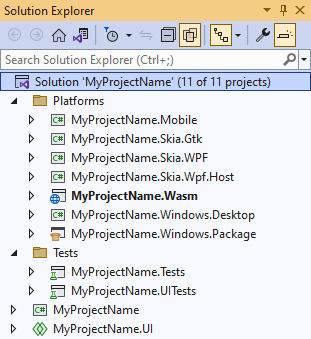
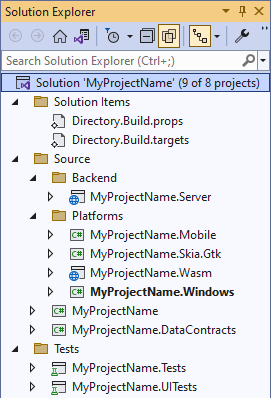
docs: Review of getting started guides

diff --git a/doc/Questions.md b/doc/Questions.md
@@ -3,41 +3,42 @@ uid: Overview.Questions
 ---
 # Frequently Asked Questions
 
-## What is Uno Platform Extensions?
-Uno Platform Extensions is our lineup of helpful NuGet packages designed to encapsulate common functions when building multi-platform mobile, desktop, and web applications with Uno Platform.
+## What is Uno.Extensions?
+Uno.Extensions is a series of helpful NuGet packages designed to encapsulate common functions when building multi-platform mobile, desktop, and web applications with Uno Platform.
 
-## What functionality is part of the Uno Extensions collection?
+## What functionality is part of Uno.Extensions?
 Key features like dependency injection, serialization, configuration, environments, HTTP, localization, logging, hosting, and authentication allow you to save time while also lowering your overall budget for the application. 
 
-## How productive will I be with Uno Extensions?
-With Uno Extensions, you'll be bursting with productivity! 
-
+## How productive will I be with Uno.Extesions?
+With Uno.Extesions, you'll be bursting with productivity! 
+[GettingStarted.md](GettingStarted.md)
 From advancements in starting a new project with the app template to the ability to extend the functionality of your app, you'll be able to get to market faster and with less effort.
 
-## How can Uno Extensions help me meet the moment?
-Uno Extensions allows you to respond quickly to changing market conditions by saving up months of development time. You will be able to reduce the budget needed to develop the app and reap the benefits of arriving to market fast.
+## How can Uno.Extesions help me meet the moment?
+Uno.Extesions allows you to respond quickly to changing market conditions by saving up months of development time. You will be able to reduce the budget needed to develop the app and reap the benefits of arriving to market fast.
 
 Likewise, your organization can streamline developer resources by reusing tested code across both iOS and Android devices.
 
-## How does Uno Extensions allow me to extend the functionality of my app?
+## How does Uno.Extesions allow me to extend the functionality of my app?
 A host environment is provided where you can easily register application features as additional dependencies. The registered dependencies are then available throughout the application.
 
-## How can I get started with Uno Extensions?
+## How can I get started with Uno.Extesions?
 Instructions for creating an application from the template can be found [here](xref:Overview.Extensions)
 
-## What are the NuGet packages included in Uno Extensions?
-The Uno Extensions collection includes the following NuGet packages:
+## What are the NuGet packages included in Uno.Extesions?
+The Uno.Extesions collection includes the following NuGet packages:
 
 | Package                      |                                                                                      |
 |------------------------------|--------------------------------------------------------------------------------------|
-| Uno.Extensions.Hosting       | Initializes the hosting environment, including initializing the dependency container |
+| Uno.Extensions.Authentication | Provides authentication services                                                     |
 | Uno.Extensions.Configuration | Loads configuration information from various sources                                 |
+| Uno.Extensions.Hosting       | Initializes the hosting environment, including initializing the dependency container |
+| Uno.Extensions.Http          | Configures native HTTP handlers and register endpoints                               |
+| Uno.Extensions.Localization  | Provides access to localizable resources                                             |
 | Uno.Extensions.Logging       | Configures application logging                                                       |
 | Uno.Extensions.Navigation    | Routing framework for navigation                                                     |
 | Uno.Extensions.Reactive      | Development framework for reactive applications                                      |
-| Uno.Extensions.Localization  | Provides access to localizable resources                                             |
 | Uno.Extensions.Serialization | Helpers for JSON serialization                                                       |
-| Uno.Extensions.Http          | Configures native HTTP handlers and register endpoints                               |
-| Uno.Extensions.Authentication | Provides authentication services                                                     |
+| Uno.Extensions.Validation | Helpers for data validation                                                       |
 
 For a more specific description of the functionality included in each referenced package—such as configuration, logging, navigation, and Reactive—refer to the relevant documentation.

diff --git a/doc/GettingStarted.md b/doc/GettingStarted.md
@@ -3,21 +3,21 @@ uid: Overview.Extensions
 ---
 # How-To: Creating an application with Uno.Extensions
 
-This tutorial will walk through how to create an Uno application with the `dotnet new` tool, which is already configured to use the Uno Extensions.
+This tutorial will walk through how to create an Uno application with the `dotnet new` tool, which is already configured to use the Uno.Extensions.
 
 ## Step-by-steps
 
 ### 1. Installing extension templates
 
-The `dotnet` templates included in the `Uno.Extensions.Templates` package are used to easily create new projects that already reference the Uno.Extensions.
+The `dotnet` templates included in the `Uno.Templates` package are used to easily create new projects that already reference the Uno.Extensions.
 
 * Open a command prompt and run the following
 
-    `dotnet new install Uno.Extensions.Templates`
+    `dotnet new install Uno.Templates`
 
-* Navigate to the desired projects directory, and use the `unoapp-extensions` template to generate the starter solution discussed above
+* Navigate to the desired projects directory, and use the `unoapp` template to generate the starter solution discussed above
 
-    `dotnet new unoapp-extensions -o MyProjectName`
+    `dotnet new unoapp -o MyProjectName`
 
     The argument specified after the `-o` flag (i.e. MyProjectName) will act as the name for both a containing directory and the generated solution.
 
@@ -29,8 +29,9 @@ The `dotnet` templates included in the `Uno.Extensions.Templates` package are us
 
 The generated solution will contain:
 
-* *MyProjectName* - for application logic, and other constructs like view models and services that are independent of the UI of the application.
-* *MyProjectName.UI* - for controls, pages, and views comprising the app’s UI layer.
+* *MyProjectName* - for application logic, and other constructs like view models and services, as well as the pages, controls and other views that make up the UI of the application
+* *MyProjectName.DataContracts* - for entities that are shared with an API backend.
+* *MyProjectName.Server* - ASP.NET project that hosts a WebAPI and can be used to host the WASM application.
 * *Platforms/MyProjectName.** - platform-specific projects for each supported platform.
 * *MyProjectName.Tests* and *MyProjectName.UI.Tests* - for writing unit and UI tests respectively.
 
@@ -63,7 +64,7 @@ The generated solution will contain:
 
 * Press Ctrl + F5 to start the WASM project without debugging.
 
-* Once the application is compiled, it will launch inside your default browser. Take note of the URL which should look something like this: https://localhost:11111/
+* Once the application is compiled, it will launch inside your default browser. Take note of the URL which should look something like this: https://localhost:5000/Main
 
 * Find the project *Tests\\MyProjectName.UI.Tests* and locate the *Constants.cs* file
 
@@ -72,7 +73,7 @@ The generated solution will contain:
     It should appear similar to this:
 
     ```cs
-    public readonly static string WebAssemblyDefaultUri = "https://localhost:11111/";
+    public readonly static string WebAssemblyDefaultUri = "https://localhost:5000/";
     ```
 
 * Go back to the project *Tests\\MyProjectName.UI.Tests* and right click. Then, *Run Tests*

diff --git a/doc/ExtensionsOverview.md b/doc/ExtensionsOverview.md
@@ -21,7 +21,8 @@ Alongside Uno, the app template references a lineup of battle-tested packages pr
 |[Logging](xref:Learn.Tutorials.Logging.UseLogging)|The Uno.Extensions.Logging package provides a way to log messages to a variety of output targets.|
 |[Navigation](xref:Learn.Tutorials.Navigation.HowToNavigateBetweenPages)|The Uno.Extensions.Navigation package provides a routing framework for navigation.|
 |[Reactive](xref:Overview.Reactive.General)|The Uno.Extensions.Reactive package provides a development framework for reactive applications.|
-|[Serialization](xref:Learn.Tutorials.Serialization.HowToSerialization)|The Uno.Extensions.Serialization package provides helpers for JSON serialization.|
+|[Serialization](xref:Overview.Serialization)|The Uno.Extensions.Serialization package provides helpers for JSON serialization.|
+|[Validation](xref:Overview.Validation)|The Uno.Extensions.Validation package provides support for data validation.|
 
 
 > [!TIP]
